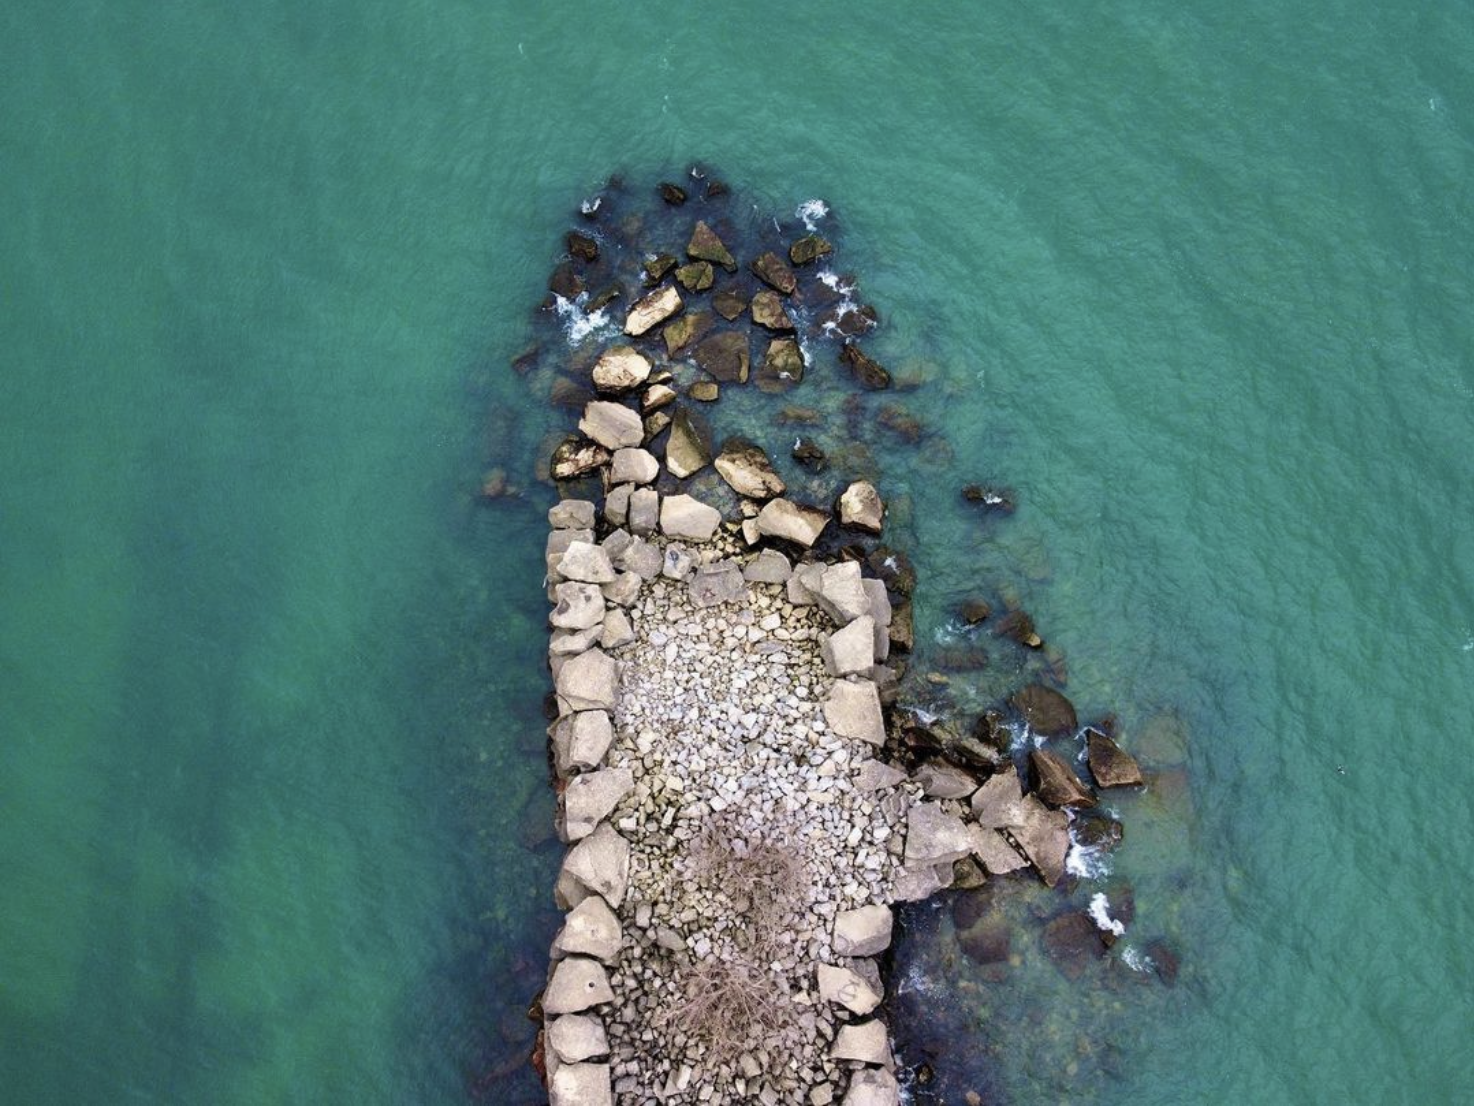
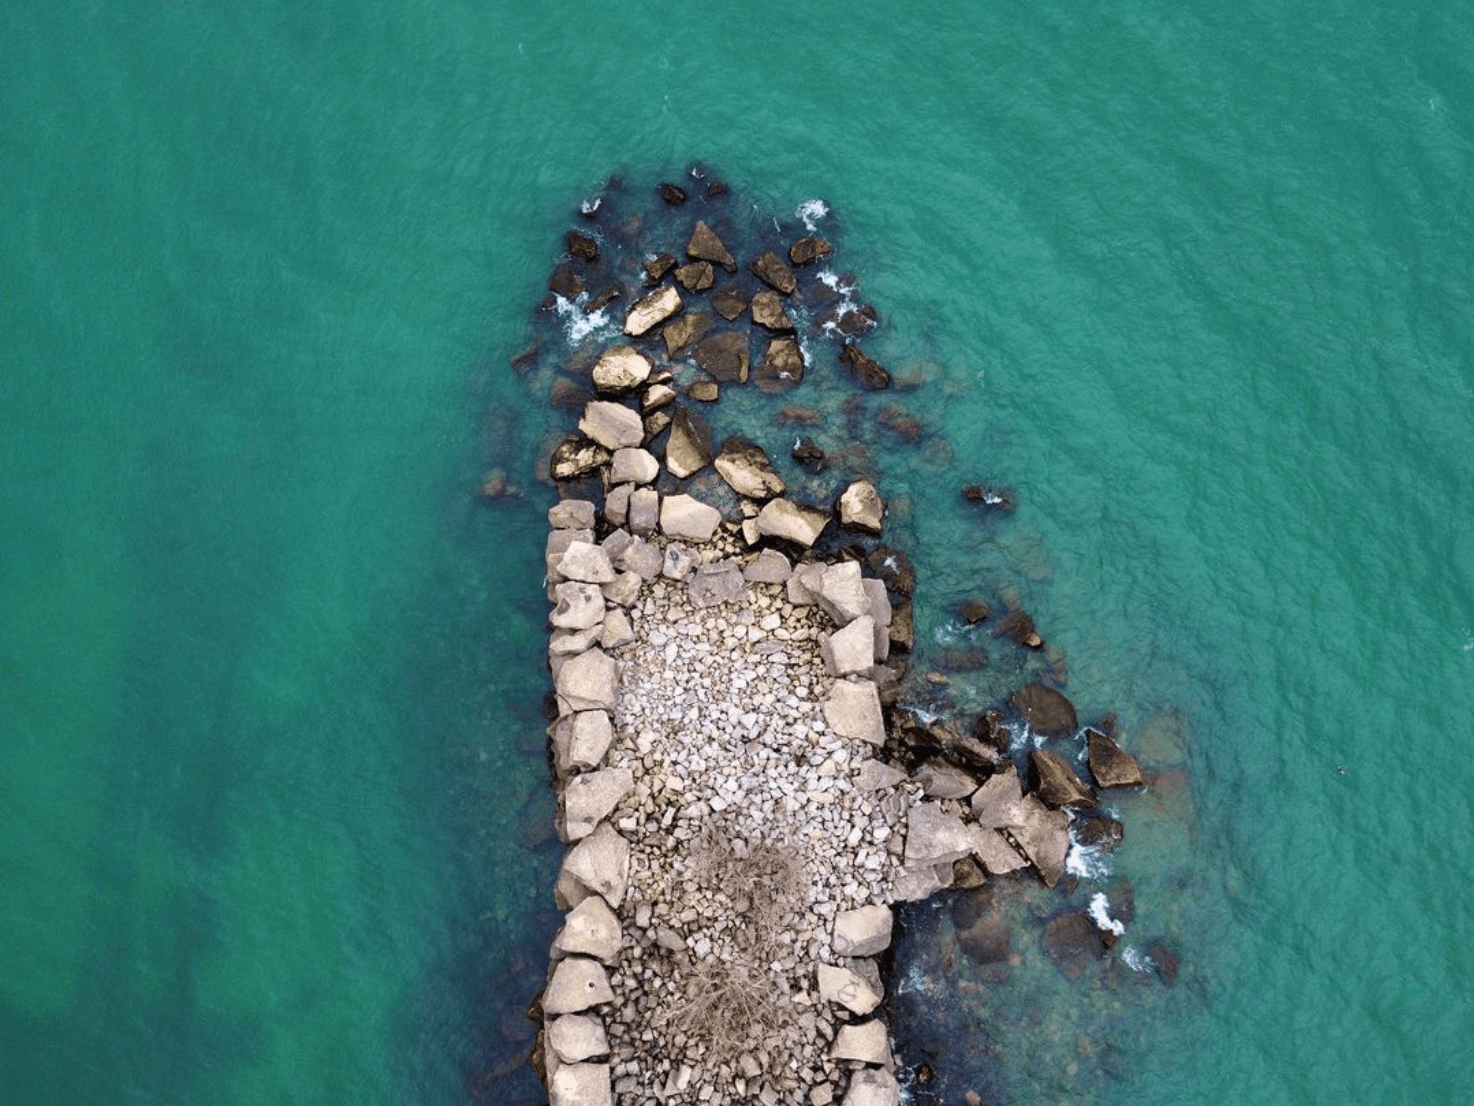
compressed image size, adjusted some css.

diff --git a/src/LandingPage/LandingPage.css b/src/LandingPage/LandingPage.css
@@ -24,14 +24,9 @@ body {
   scrollbar-color: transparent transparent;
 }
 
-.buttons{
-  margin-top: 20vh;
-}
-
-
 .LandingPage {
   text-align: center;
-  background-image: url("../share/photos/dock.JPG");
+  background-image: url("../share/photos/dock-min.JPG");
   background-color: #18191b ;
   background-repeat: no-repeat;
   background-size: cover;
@@ -113,14 +108,16 @@ body {
 }
 
 .buttons {
+  margin-top: 20vh;
   display: flex;
   justify-content: space-between;
   align-items: center;
+  margin-right: 10px;
 }
 
 .buttons button {
-  flex: 1;
-  margin-right: 10px;
+  margin-top: 10px;
+  margin-left: 10px;
 }
 
 
@@ -132,7 +129,7 @@ body {
 
 #exploreButton {
   font-size: 15px;
-  padding: 12px 35px;
+  padding: 12px 48.5px;
 }
 
 #photobutton{

diff --git a/src/LandingPage/LandingPage.js b/src/LandingPage/LandingPage.js
@@ -129,16 +129,18 @@ export default function LandingPage(props) {
         </div>
 
         <div className='buttons'>
+        <button id="exploreButton" onClick={handleExploreButtonClick}>
+          {props.showProjectsTab ? 'Close' : 'Explore'}
+        </button>
+
+
+        <br></br>
+        
         <button
           id = 'photobutton'
           onClick={handlePhotographyButtonClick}
         >
           Photography
-        </button>
-
-        <br></br>
-        <button id="exploreButton" onClick={handleExploreButtonClick}>
-          {props.showProjectsTab ? 'Close' : 'Explore'}
         </button>
         </div>
 
